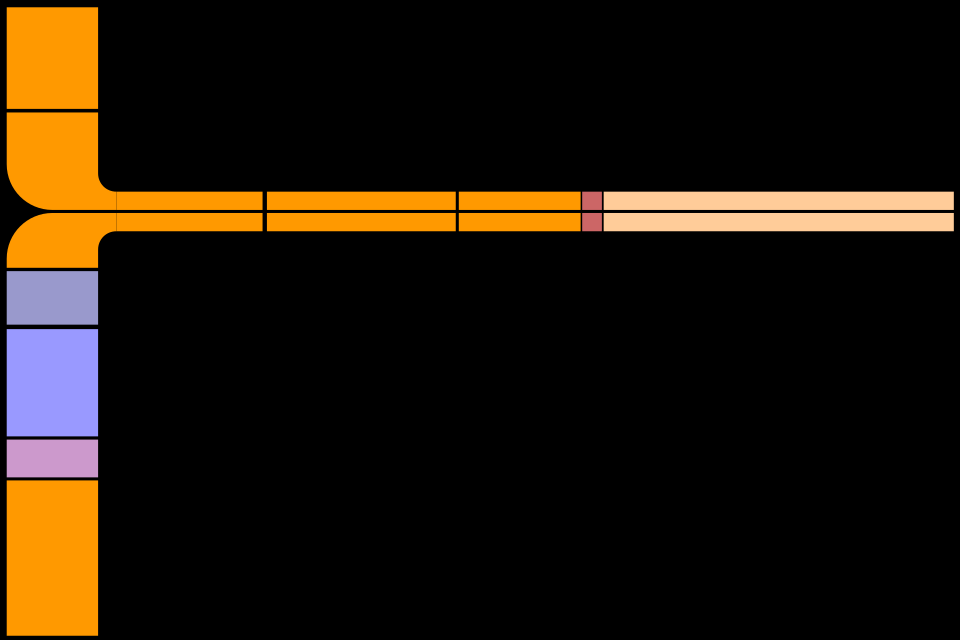
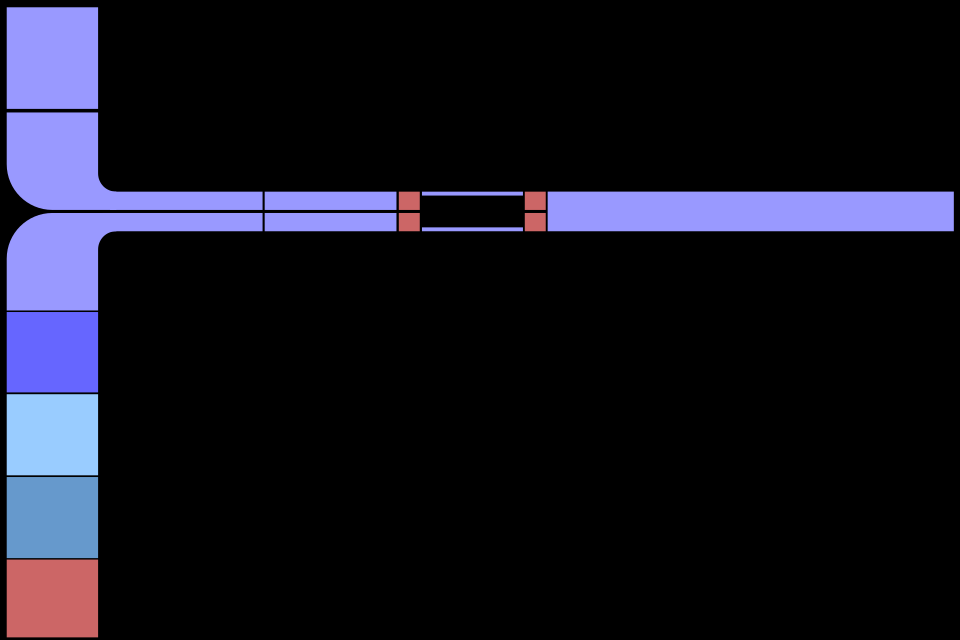
Playing with new layout and some UI changes to better fit the small screen. Next up, side buttons to control other functions

Changed region(s): [[0.0, 0.0, 1.0, 1.0]]

diff --git a/app/screens/main.py b/app/screens/main.py
@@ -69,8 +69,8 @@ class ScreenMain(LcarsScreen):
         all_sprites.add(self.stardate, layer=1)
 
         # Section/Parameter ID Text
-        self.sensorTimestampText = LcarsText((0, 0, 0), (104, 304),
-                                             "LAST UPDATE: ", 0.60)
+        self.sensorTimestampText = LcarsText((0, 0, 0), (95, 275),
+                                             "LAST UPDATE: ", 1.0)
         self.sectionText = LcarsText((255, 204, 153), (120, 55),
                                      "TEMPERATURE:", 3.)
         all_sprites.add(self.sensorTimestampText, layer=4)
@@ -86,24 +86,27 @@ class ScreenMain(LcarsScreen):
 
         # buttons
         buttrowpos = (270, 65)
-        butt1 = LcarsButton(colours.BEIGE, buttrowpos, "Temperature",
-                            self.cTempHandler)
-        butt2 = LcarsButton(colours.PURPLE,
-                            (buttrowpos[0], buttrowpos[1] + butt1.size[0]),
-                            "Pressure", self.cPressHandler)
-        butt3 = LcarsButton(colours.PURPLE,
-                            (buttrowpos[0],
-                             buttrowpos[1] + butt1.size[0] + butt2.size[0]),
-                            "Humidity", self.cHumiHandler)
-        butt4 = LcarsButton(colours.PURPLE,
-                            (buttrowpos[0],
-                             buttrowpos[1] + butt1.size[0] + butt2.size[0] + butt3.size[0]),
-                            "Power", self.cPowerHandler)
+        self.butt1 = LcarsButton((255, 153, 0), buttrowpos, "Temperature",
+                                 self.cTempHandler)
+        self.butt2 = LcarsButton((255, 153, 102),
+                                 (buttrowpos[0],
+                                  buttrowpos[1] + self.butt1.size[0]),
+                                 "Pressure", self.cPressHandler)
+        self.butt3 = LcarsButton((255, 204, 153),
+                                 (buttrowpos[0],
+                                  buttrowpos[1] + self.butt1.size[0] +
+                                  self.butt2.size[0]),
+                                 "Humidity", self.cHumiHandler)
+        self.butt4 = LcarsButton((255, 204, 102),
+                                 (buttrowpos[0],
+                                  buttrowpos[1] + self.butt1.size[0] +
+                                  self.butt2.size[0] + self.butt3.size[0]),
+                                 "Power", self.cPowerHandler)
 
-        all_sprites.add(butt1, layer=5)
-        all_sprites.add(butt2, layer=5)
-        all_sprites.add(butt3, layer=5)
-        all_sprites.add(butt4, layer=5)
+        all_sprites.add(self.butt1, layer=5)
+        all_sprites.add(self.butt2, layer=5)
+        all_sprites.add(self.butt3, layer=5)
+        all_sprites.add(self.butt4, layer=5)
 
         # Local (intranet) MQTT server setup; Hopefully we can can start
         #   with the current values already there if all is well with MQTT
@@ -122,6 +125,13 @@ class ScreenMain(LcarsScreen):
             # Note: We need to explicitly update the strings since they're
             #   caught in the time loop and may lay
             self.updateDisplayedSensorStrings()
+
+        # Highlight the default choice so we know where we are and trigger
+        self.butt1.changeColor(colours.WHITE)
+        self.butt2.changeColor(self.butt2.inactiveColor)
+        self.butt3.changeColor(self.butt3.inactiveColor)
+        self.butt4.changeColor(self.butt4.inactiveColor)
+
 
     def update(self, screenSurface, fpsClock):
         if pygame.time.get_ticks() - self.lastClockUpdate > 1000:
@@ -174,24 +184,40 @@ class ScreenMain(LcarsScreen):
         self.displayedValue = "Temp"
         self.paramStr = self.tStr
         self.updateDisplayedSensorStrings()
+        self.butt1.changeColor(colours.WHITE)
+        self.butt2.changeColor(self.butt2.inactiveColor)
+        self.butt3.changeColor(self.butt3.inactiveColor)
+        self.butt4.changeColor(self.butt4.inactiveColor)
 
     def cPressHandler(self, item, event, clock):
         self.sectionText.setText("PRESSURE:")
         self.displayedValue = "Pre"
         self.paramStr = self.pStr
         self.updateDisplayedSensorStrings()
+        self.butt1.changeColor(self.butt1.inactiveColor)
+        self.butt2.changeColor(colours.WHITE)
+        self.butt3.changeColor(self.butt3.inactiveColor)
+        self.butt4.changeColor(self.butt4.inactiveColor)
 
     def cHumiHandler(self, item, event, clock):
         self.sectionText.setText("HUMIDITY:")
         self.displayedValue = "Humi"
         self.paramStr = self.hStr
         self.updateDisplayedSensorStrings()
+        self.butt1.changeColor(self.butt1.inactiveColor)
+        self.butt2.changeColor(self.butt2.inactiveColor)
+        self.butt3.changeColor(colours.WHITE)
+        self.butt4.changeColor(self.butt4.inactiveColor)
 
     def cPowerHandler(self, item, event, clock):
         self.sectionText.setText("STATION POWER:")
         self.displayedValue = "Powr"
         self.paramStr = self.pwrStr
         self.updateDisplayedSensorStrings()
+        self.butt1.changeColor(self.butt1.inactiveColor)
+        self.butt2.changeColor(self.butt2.inactiveColor)
+        self.butt3.changeColor(self.butt3.inactiveColor)
+        self.butt4.changeColor(colours.WHITE)
 
     def logoutHandler(self, item, event, clock):
         from screens.blanker import ScreenBlanker

diff --git a/app/ui/widgets/lcars_widgets.py b/app/ui/widgets/lcars_widgets.py
@@ -9,12 +9,12 @@ from ui import colours
 
 class LcarsElbow(LcarsWidget):
     """The LCARS corner elbow - not currently used"""
-    
+
     STYLE_BOTTOM_LEFT = 0
     STYLE_TOP_LEFT = 1
     STYLE_BOTTOM_RIGHT = 2
     STYLE_TOP_RIGHT = 3
-    
+
     def __init__(self, colour, style, pos):
         image = pygame.image.load("assets/elbow.png").convert()
         if (style == LcarsElbow.STYLE_BOTTOM_LEFT):
@@ -23,7 +23,7 @@ class LcarsElbow(LcarsWidget):
             image = pygame.transform.rotate(image, 180)
         elif (style == LcarsElbow.STYLE_TOP_RIGHT):
             image = pygame.transform.flip(image, True, False)
-        
+
         self.image = image
         size = (image.get_rect().width, image.get_rect().height)
         LcarsWidget.__init__(self, colour, pos, size)
@@ -32,12 +32,12 @@ class LcarsElbow(LcarsWidget):
 class LcarsTab(LcarsWidget):
     STYLE_LEFT = 1
     STYLE_RIGHT = 2
-    
+
     def __init__(self, colour, style, pos):
         image = pygame.image.load("assets/tab.png").convert()
         if (style == LcarsTab.STYLE_RIGHT):
             image = pygame.transform.flip(image, False, True)
-        
+
         size = (image.get_rect().width, image.get_rect().height)
         LcarsWidget.__init__(self, colour, pos, size)
         self.image = image
@@ -50,7 +50,7 @@ class LcarsButton(LcarsWidget):
         size = (image.get_rect().width, image.get_rect().height)
         font = Font("assets/swiss911.ttf", 19)
         textImage = font.render(text, False, colours.BLACK)
-        image.blit(textImage, 
+        image.blit(textImage,
                    (image.get_rect().width - textImage.get_rect().width - 10,
                     image.get_rect().height - textImage.get_rect().height - 5))
 
@@ -61,10 +61,14 @@ class LcarsButton(LcarsWidget):
         self.applyColour(colour)
         self.highlighted = False
         self.beep = Sound("assets/audio/panel/202.wav")
+        self.inactiveColor = colour
+
+    def changeColor(self, color):
+        self.applyColour(color)
 
     def handleEvent(self, event, clock):
         handled = False
-        
+
         if (event.type == MOUSEBUTTONDOWN and\
           self.rect.collidepoint(event.pos)):
             self.applyColour(colours.WHITE)
@@ -78,32 +82,32 @@ class LcarsButton(LcarsWidget):
             if self.handler:
                 self.handler(self, event, clock)
                 handled = True
-            
+
         LcarsWidget.handleEvent(self, event, clock)
         return handled
-        
+
 class LcarsText(LcarsWidget):
-    def __init__(self, colour, pos, message, size=1.0, 
+    def __init__(self, colour, pos, message, size=1.0,
                  background=None, resolution=(480, 320)):
         self.colour = colour
         self.background = background
         self.font = Font("assets/swiss911.ttf", int(19.0 * size))
-        
+
         self.renderText(message)
-        # center the text if needed 
+        # center the text if needed
         if (pos[1] < 0):
             # Screen specific magic number below! 240 = half width
             pos = (pos[0], resolution[0]/2 - self.image.get_rect().width/2)
-            
+
         LcarsWidget.__init__(self, colour, pos, None)
 
-    def renderText(self, message):        
+    def renderText(self, message):
         if (self.background == None):
             self.image = self.font.render(message, True, self.colour)
         else:
-            self.image = self.font.render(message, True, 
+            self.image = self.font.render(message, True,
                                           self.colour, self.background)
-        
+
     def setText(self, newText):
         self.renderText(newText)
 
@@ -116,8 +120,8 @@ class LcarsBlockSmall(LcarsWidget):
     def __init__(self, colour, pos):
         size = (100, 20)
         LcarsWidget.__init__(self, colour, pos, size)
-        
+
 class LcarsTabBlock(LcarsWidget):
     def __init__(self, colour, pos):
         size = (160, 45)
-        LcarsWidget.__init__(self, colour, pos, size)        
+        LcarsWidget.__init__(self, colour, pos, size)
